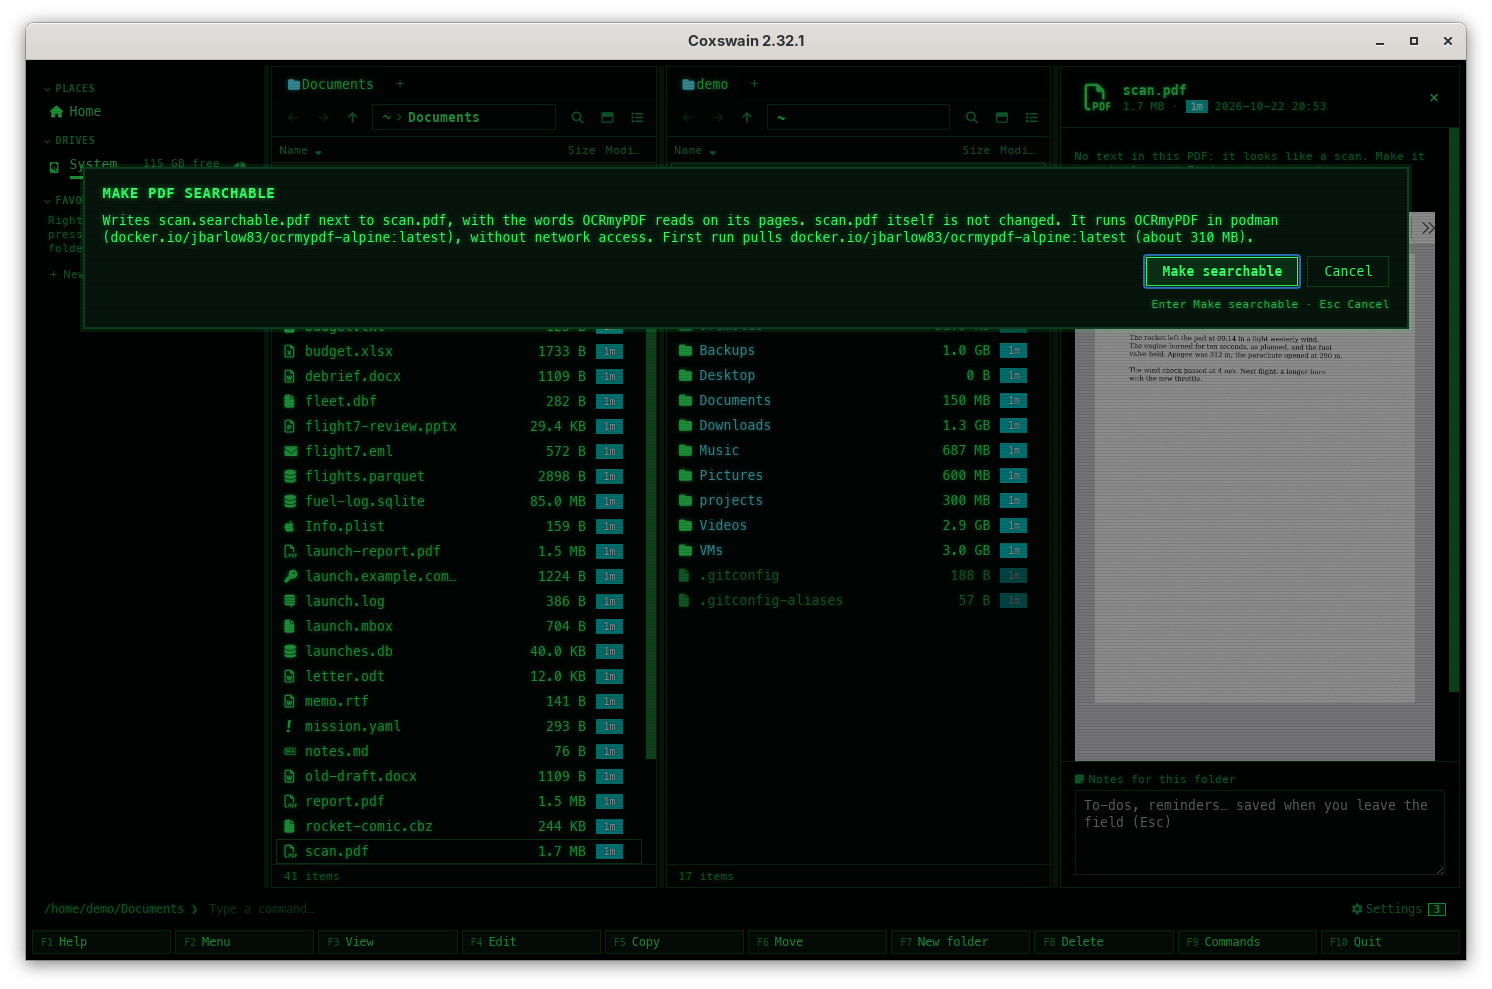
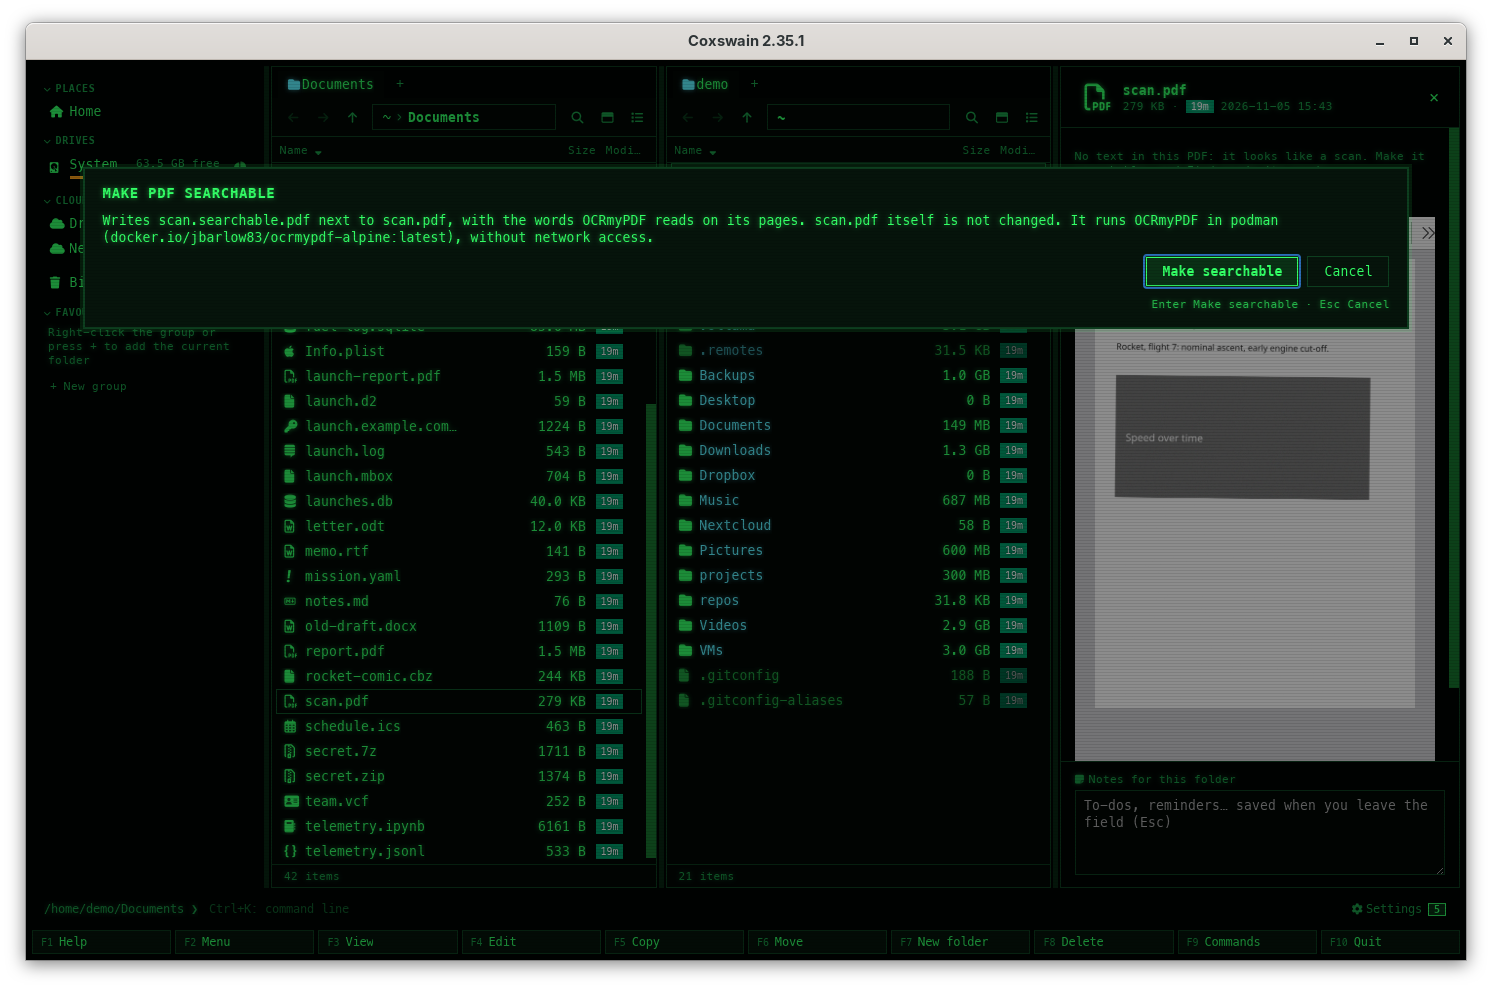
Retake drawio-export, previews-d2 and searchable-pdf with the accent buttons of #855, through a podman relay outside the sandbox; Export draw.io diagram and Build PDF of AsciiDoc work again from the menu
The container tool runs in the user's podman outside the screenshot sandbox: podman-relay.py
serves a Unix socket there and, bound over the sandbox's /usr/bin/podman, hands each call's
arguments and standard input, output and error to it. The app's dialogs and results are
podman's own.

makeExport took targets() as a default argument, but targets() is async since the desktop app
keeps each tab's listing: the action menu, F9 and keys threw and did nothing.

Claude-Session: https://claude.ai/code/session_01No2cVNi1xnSzsVJBV4FW2T

diff --git a/gui/src/app.svelte.js b/gui/src/app.svelte.js
@@ -956,9 +956,10 @@ export function stopWork() {
  *  (`coxswain_core::export`): the question (what it writes, which program runs, the first pull
  *  and its size), then the run, the status line saying how far it is with a Stop button. The
  *  action again while it runs stops it. */
-export function makeExport(adoc, op = adoc ? "adoc_pdf" : "", paths = targets()) {
+export async function makeExport(adoc, op = adoc ? "adoc_pdf" : "", paths = null) {
   const action = adoc ? "adoc_pdf" : "drawio_export";
   if (ui.exporting) return stopExport();
+  paths ??= await targets();
   const files = paths.filter((p) => (adoc ? /\.(adoc|asciidoc)$/i.test(p) : isDrawio(basename(p))));
   if (!files.length) return void (ui.status = t(adoc ? "export.none_adoc" : "export.none_drawio"));
   const ask = async (op) => {

diff --git a/docs/screenshots/podman-relay.py b/docs/screenshots/podman-relay.py
@@ -1,0 +1,84 @@
+#!/usr/bin/python3 -I
+"""The user's own podman for an app in the screenshot sandbox, run outside it.
+
+No podman may run inside the sandbox (sandbox.sh): its pause process would land in the
+sandbox's namespaces and break the user's rootless podman. For pictures of a screen that needs
+a container tool (draw.io, Kroki, OCRmyPDF), this file plays two parts:
+
+- outside, `podman-relay.py serve <socket> <demo-home>` listens on a Unix socket and, for each
+  call, runs the real podman in the user's normal session, with the caller's own standard
+  input, output and error;
+- inside, bound over the sandbox's /usr/bin/podman (`SANDBOX_ARGS="--ro-bind <this file>
+  /usr/bin/podman"`), it sends its arguments and those three file descriptors to the socket,
+  found at $XDG_RUNTIME_DIR/podman-relay.sock, and exits with podman's exit code.
+
+So the dialogs and results the pictures show are podman's own. The one change on the way: a
+mount's source under /home/demo (the sandbox's home) becomes the same folder in <demo-home>.
+Images are never pulled by the relay: the app runs with --pull=never, and Pull in Settings would
+pull into the user's own store, so pull only what the pictures need and remove it after.
+
+    docs/screenshots/podman-relay.py serve "$RUNTIME/podman-relay.sock" "$DEMO_HOME" &
+    SANDBOX_ARGS="--ro-bind docs/screenshots/podman-relay.py /usr/bin/podman" uv run my-shots.py
+
+Stop the relay by its own PID when done.
+"""
+
+import json, os, signal, socket, subprocess, sys, threading
+
+SANDBOX_HOME = "/home/demo"
+
+
+def client():
+    s = socket.socket(socket.AF_UNIX)
+    s.connect(os.path.join(os.environ["XDG_RUNTIME_DIR"], "podman-relay.sock"))
+    socket.send_fds(s, [json.dumps(sys.argv[1:]).encode()], [0, 1, 2])
+    code = s.recv(16)
+    sys.exit(int(code) if code else 1)
+
+
+def outside(arg, demo):
+    # Only the mount source: `type=bind,"source=/home/demo/…",target=/src`.
+    return arg.replace(f'"source={SANDBOX_HOME}/', f'"source={demo}/').replace(f'"source={SANDBOX_HOME}"', f'"source={demo}"')
+
+
+def handle(conn, demo):
+    with conn:
+        msg, fds, _, _ = socket.recv_fds(conn, 1 << 20, 3)
+        args = [outside(a, demo) for a in json.loads(msg)]
+        p = subprocess.Popen(["/usr/bin/podman", *args], stdin=fds[0], stdout=fds[1], stderr=fds[2])
+        for fd in fds:
+            os.close(fd)
+
+        # The caller gone (the app stopped it): stop its podman too.
+        def watch():
+            try:
+                conn.recv(1)
+            except OSError:
+                pass
+            if p.poll() is None:
+                p.send_signal(signal.SIGTERM)
+        threading.Thread(target=watch, daemon=True).start()
+        try:
+            conn.sendall(str(p.wait()).encode())
+        except OSError:
+            pass
+
+
+def serve(path, demo):
+    demo = os.path.realpath(demo)
+    if os.path.exists(path):
+        os.unlink(path)
+    s = socket.socket(socket.AF_UNIX)
+    s.bind(path)
+    os.chmod(path, 0o600)
+    s.listen(16)
+    while True:
+        conn, _ = s.accept()
+        threading.Thread(target=handle, args=(conn, demo), daemon=True).start()
+
+
+if __name__ == "__main__":
+    if sys.argv[1:2] == ["serve"]:
+        serve(sys.argv[2], sys.argv[3])
+    else:
+        client()

diff --git a/docs/files/searchable-pdf.md b/docs/files/searchable-pdf.md
@@ -8,7 +8,7 @@ original: `report.pdf` gets `report.searchable.pdf`. [OCRmyPDF](https://ocrmypdf
 reads the pages; the copy looks the same and has its words as an invisible layer, so any program
 can search and select them, and Find reads them as it reads any PDF. Both apps.
 
-![The desktop app in the Cyber theme: scan.pdf under the cursor in Documents, its scanned page in the preview pane under the line No text in this PDF: it looks like a scan, and over it the dialog Make PDF searchable: Writes scan.searchable.pdf next to scan.pdf, with the words OCRmyPDF reads on its pages. scan.pdf itself is not changed. It runs OCRmyPDF in podman (docker.io/jbarlow83/ocrmypdf-alpine:latest), without network access. First run pulls docker.io/jbarlow83/ocrmypdf-alpine:latest (about 310 MB), with the buttons Make searchable and Cancel](../screenshots/searchable-pdf.png)
+![The desktop app in the Cyber theme: scan.pdf under the cursor in Documents, its scanned page in the preview pane under the line No text in this PDF: it looks like a scan, and over it the dialog Make PDF searchable: Writes scan.searchable.pdf next to scan.pdf, with the words OCRmyPDF reads on its pages. scan.pdf itself is not changed. It runs OCRmyPDF in podman (docker.io/jbarlow83/ocrmypdf-alpine:latest), without network access, with the buttons Make searchable and Cancel](../screenshots/searchable-pdf.png)
 
 ## Contents
 

diff --git a/CLAUDE.md b/CLAUDE.md
@@ -293,7 +293,9 @@ process namespace: stopping it stops all it started, the search helper too. See 
   the picture): after a change to that screen, a release build and
   `uv run docs/screenshots/scenes.py --write` retakes them all; name some to retake only those.
   A new terminal picture gets a scene there.
-- Never run podman or docker inside the sandbox.
+- Never run podman or docker inside the sandbox. A picture of a screen that needs a container
+  tool (draw.io, Kroki, OCRmyPDF) uses `docs/screenshots/podman-relay.py`: it runs the user's
+  podman outside the sandbox, for an app inside that calls it through the relay (see its top).
 - Keys may be sent (`wtype`) only to the sandbox window, and only after checking that it has
   the focus. Never type into other windows, and never stop Coxswain processes by name: stop the
   sandbox's own processes.

diff --git a/changelog.d/container-pictures.md b/changelog.d/container-pictures.md
@@ -1,0 +1,1 @@
+| **Export draw.io diagram and Build PDF of AsciiDoc work again from the action menu, F9 and their keys in the desktop app.** They did nothing there; only the buttons in the preview worked. | [Export draw.io diagrams](files/drawio-export.md#how-to-use-it) · [AsciiDoc to PDF](files/asciidoc-pdf.md#how-to-use-it) |
